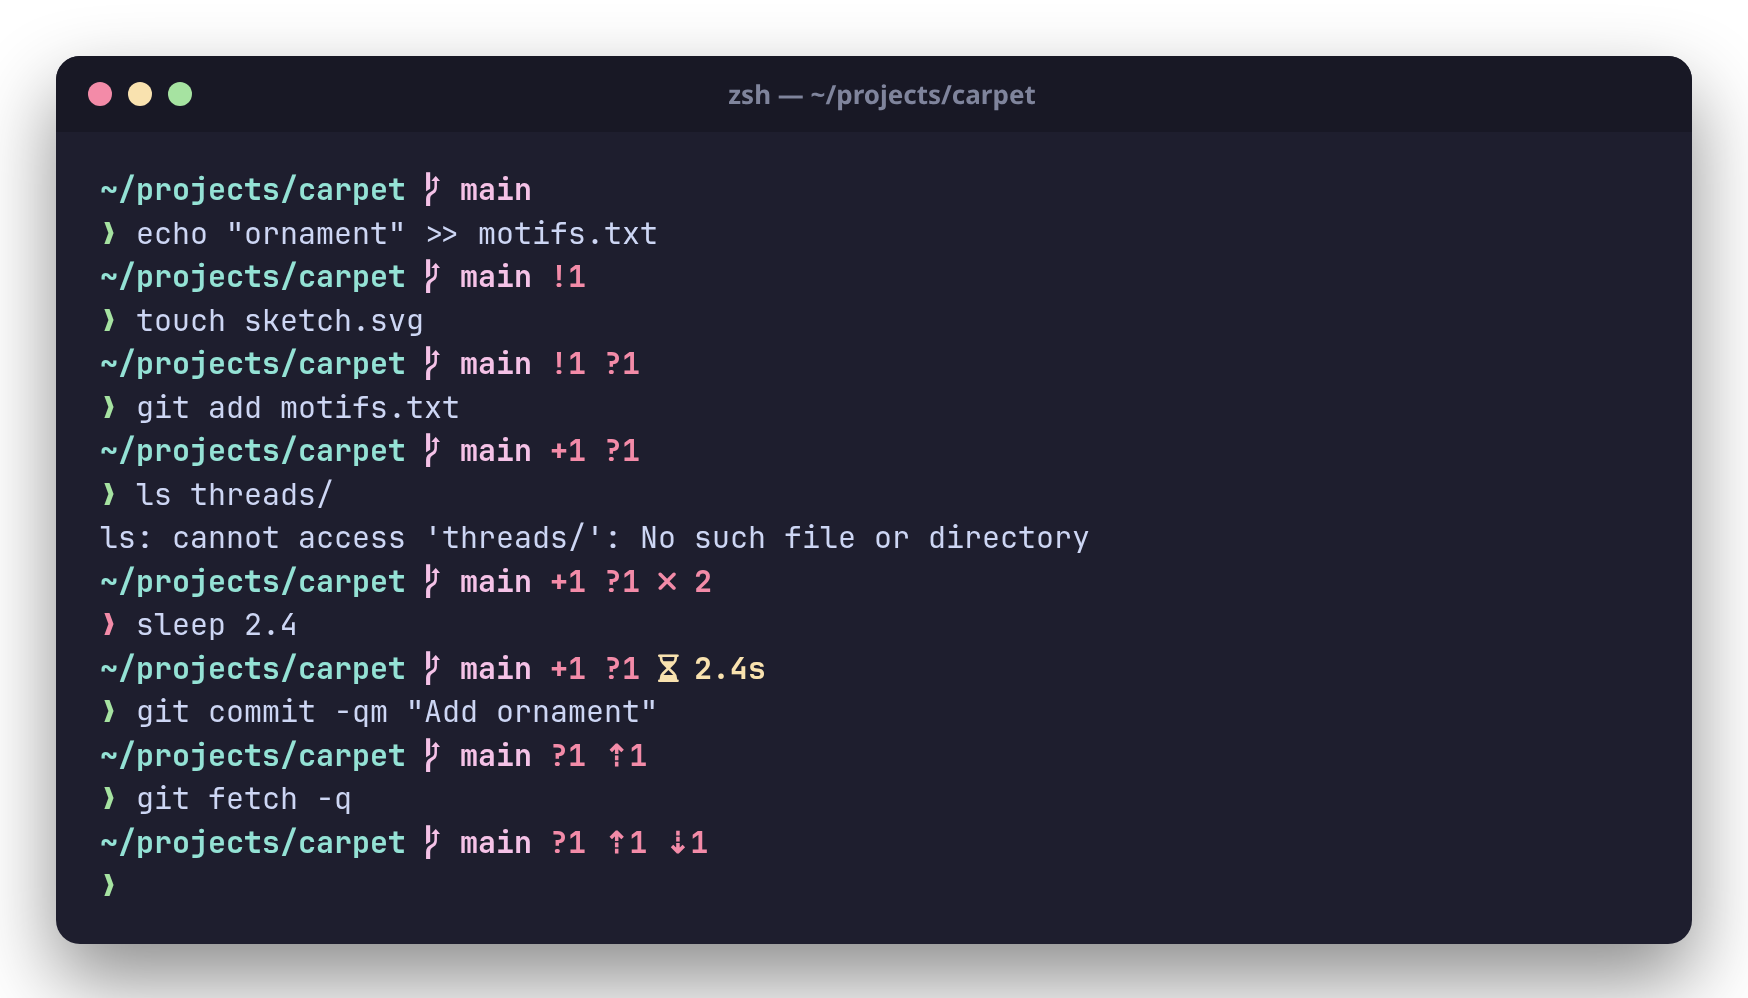
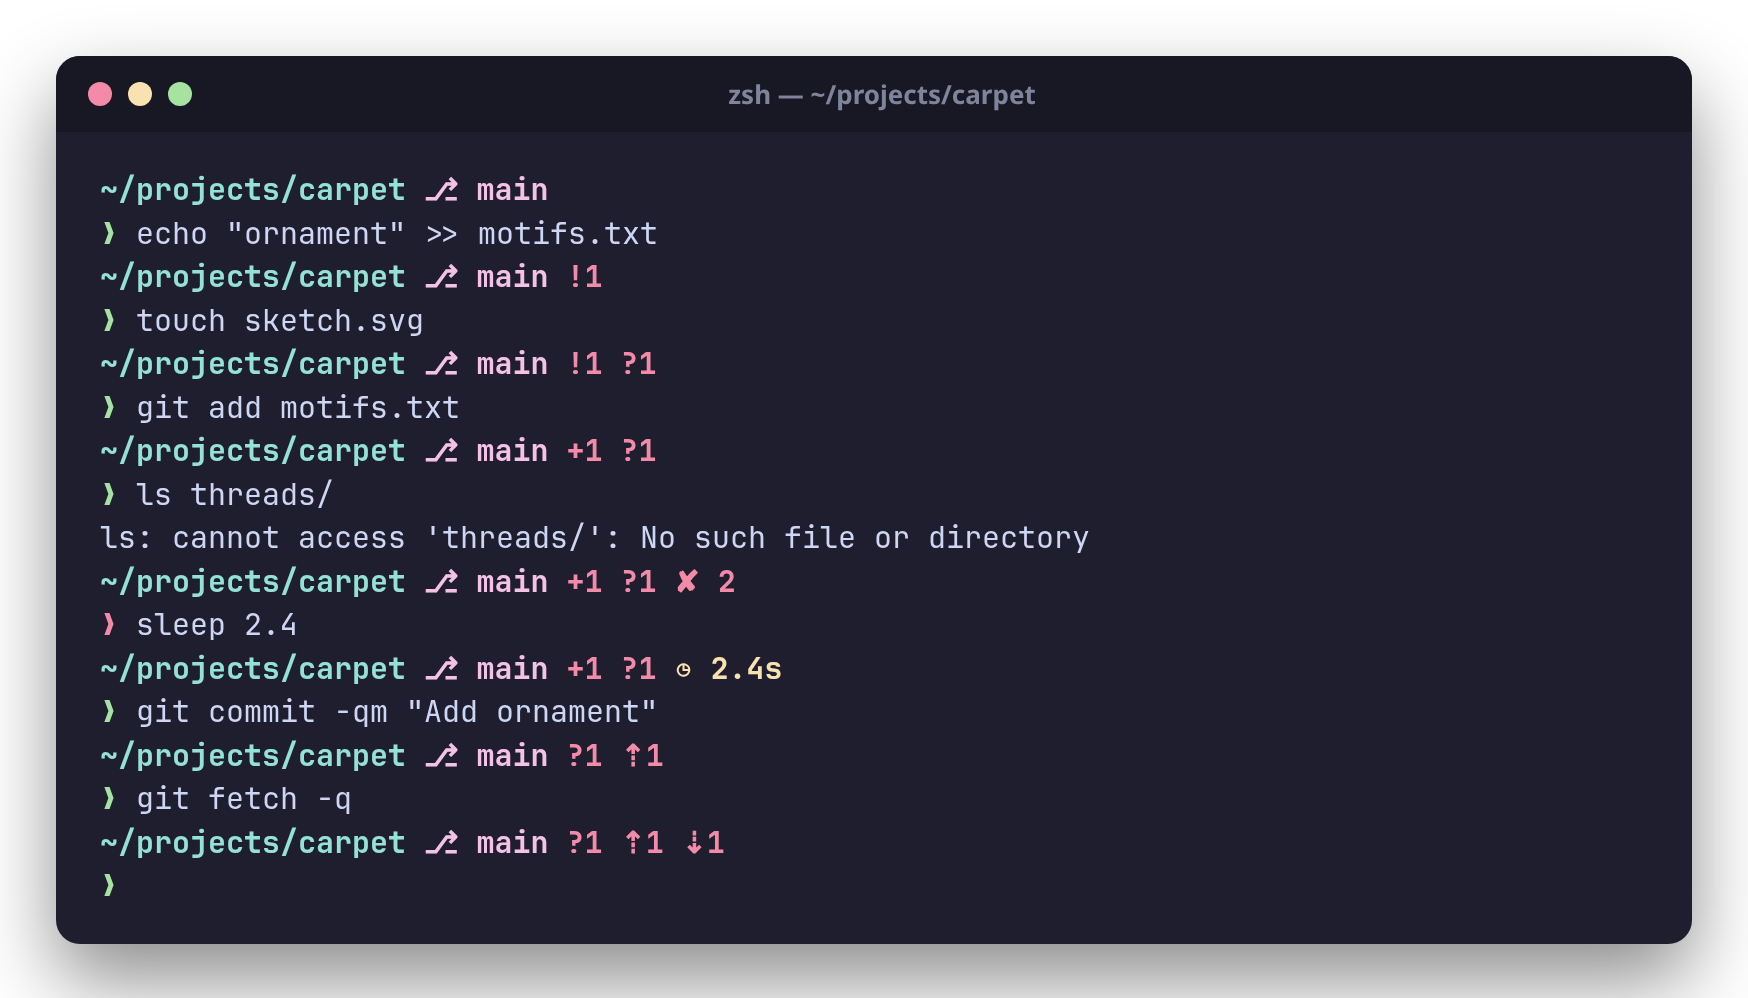
No font dependency: Unicode glyphs and block-element shapes by default
The default glyph set is now .unicode: standard Unicode only, which any
font draws (from a fallback font if need be). The Nerd Font icons stay
available as .glyphs = .nerd. Segments default to half blocks, and every
preset uses block-element shapes instead of powerline glyphs: stairs
(carpet), shade (neon), dither (pixel), equalizer (acid) and pills
(bubbles). A test keeps Private Use Area code points out of the presets
and the default set. Screenshots regenerated.

diff --git a/docs/tools/render.py b/docs/tools/render.py
@@ -4,8 +4,10 @@
 
     render.py capture.ans out.png [--title TITLE] [--cols N]
 
-Needs chromium (headless) and JetBrainsMono Nerd Font installed, so the
-glyphs render exactly as in a real terminal.
+    render.py capture.ans out.png --font "Noto Sans Mono"
+
+Needs chromium (headless) and JetBrains Mono (the Nerd Font build, whose
+files are found by name) installed, or any installed font with --font.
 """
 
 import argparse
@@ -141,7 +143,7 @@ def to_html(text):
     return lines
 
 
-def page(lines, title, cols):
+def page(lines, title, cols, family=None):
     char_w = FONT_SIZE * 0.6
     width = int(cols * char_w + 2 * PAD_X)
     height = int(len(lines) * FONT_SIZE * LINE_HEIGHT + 2 * PAD_Y + BAR)
@@ -154,6 +156,9 @@ def page(lines, title, cols):
             ("Italic", 400, "italic"), ("BoldItalic", 700, "italic"),
         ]
     )
+    stack = "T,monospace"
+    if family:
+        fonts, stack = "", '"%s",monospace' % family
     body = "".join('<div class="l">%s</div>' % l for l in lines)
     doc = """<!doctype html><meta charset="utf-8"><style>%s
 html,body{margin:0;background:%%s}
@@ -163,12 +168,12 @@ html,body{margin:0;background:%%s}
    font:600 13px system-ui,sans-serif;color:#7f849c}
 .d{width:12px;height:12px;border-radius:50%%}
 .t{flex:1;text-align:center;margin-right:52px}
-.s{padding:%dpx %dpx;font:%dpx/%s T,monospace;color:%s;white-space:pre}
+.s{padding:%dpx %dpx;font:%dpx/%s %s;color:%s;white-space:pre}
 .l{height:%.2fpx}
 </style><div class="w"><div class="b"><span class="d" style="background:#f38ba8"></span>
 <span class="d" style="background:#f9e2af"></span><span class="d" style="background:#a6e3a1"></span>
 <span class="t">%s</span></div><div class="s">%s</div></div>""" % (
-        fonts, margin, width, BG, BAR, PAD_Y, PAD_X, FONT_SIZE, LINE_HEIGHT, FG,
+        fonts, margin, width, BG, BAR, PAD_Y, PAD_X, FONT_SIZE, LINE_HEIGHT, stack, FG,
         FONT_SIZE * LINE_HEIGHT, html.escape(title), body,
     )
     return doc, width + 2 * margin, height + 2 * margin
@@ -211,12 +216,13 @@ def main():
     ap.add_argument("out")
     ap.add_argument("--title", default="")
     ap.add_argument("--cols", type=int, default=0)
+    ap.add_argument("--font", default=None, help="an installed font family to use instead")
     args = ap.parse_args()
     text = open(args.capture, encoding="utf-8", errors="replace").read()
     text = re.sub(r"(\n[ \t]*)+$", "", text.rstrip("\n") + "\n")  # trailing blank lines
     lines = to_html(text)
     cols = args.cols or max(len(SGR.sub("", OTHER_ESC.sub("", l))) for l in text.split("\n"))
-    doc, w, h = page(lines, args.title, cols)
+    doc, w, h = page(lines, args.title, cols, args.font)
     with tempfile.TemporaryDirectory() as tmp:
         white = shoot(doc, "#ffffff", w, h, tmp, "white")
         black = shoot(doc, "#000000", w, h, tmp, "black")

diff --git a/docs/configuration.md b/docs/configuration.md
@@ -17,8 +17,8 @@ config never costs you the prompt.
 
 ```zig
 .{
-    // .nerd (default, needs a Nerd Font) or .ascii
-    .glyphs = .nerd,
+    // .unicode (default, any font), .nerd (icons, needs a Nerd Font) or .ascii
+    .glyphs = .unicode,
     // Modules in display order; modules left out are never computed.
     .order = .{ .dir, .git_branch, .git_status, .python, .node, .rust, .go, .zig, .duration, .status, .jobs, .line_break, .character },
     .separator = " ",
@@ -75,15 +75,27 @@ segments.
 
 ```zig
 .segments = .{
-    .open = "\u{e0b6}",  // before a run of segments
-    .join = "\u{e0b0}",  // between two segments; null: separate pills
-    .close = "\u{e0b0}", // after a run
+    .open = "▐",  // before a run of segments (the default)
+    .join = "▌",  // between two segments; null: separate pills
+    .close = "▌", // after a run
     .padding = " ",      // inside each segment, on both sides
 },
 ```
 
-Some shapes from the Nerd Font set (and plain Unicode, which needs no
-special font):
+Shapes made of block elements work with every font (most terminals
+draw these characters themselves, filling the cell):
+
+| Shape     | open    | join    | close   | Used by  |
+|-----------|---------|---------|---------|----------|
+| half      | `▐`     | `▌`     | `▌`     | default  |
+| stairs    | `▗▟`    | `▙▖`    | `▙▖`    | carpet   |
+| shade     | `░▒▓`   | `▓▒░`   | `▓▒░`   | neon     |
+| dither    | `▗▞`    | `▞`     | `▚▖`    | pixel    |
+| equalizer | `▁▃▅▇`  | `▇▅▃▁`  | `▇▅▃▁`  | acid     |
+| pills     | `▐`     | `null`  | `▌`     | bubbles  |
+
+With a Nerd Font, the powerline shapes are available too. They are in
+the Private Use Area, so without such a font they show as boxes:
 
 | Shape     | open       | join       | close      |
 |-----------|------------|------------|------------|
@@ -92,8 +104,6 @@ special font):
 | slant     | `\u{e0ba}` | `\u{e0bc}` | `\u{e0bc}` |
 | flame     | `\u{e0c2}` | `\u{e0c0}` | `\u{e0c0}` |
 | pixel     | `\u{e0c7}` | `\u{e0c6}` | `\u{e0c6}` |
-| shade     | `░▒▓`      | `\u{e0b0}` | `▓▒░`      |
-| pills     | `\u{e0b6}` | `null`     | `\u{e0b4}` |
 
 **Ornaments.** The `text` module draws fixed pieces of styled text:
 motifs, frames, labels. List `.text` in `order` wherever it should go
@@ -109,8 +119,9 @@ motifs, frames, labels. List `.text` in `order` wherever it should go
 ```
 
 **Paths.** `.dir = .{ .separator = " ❯ " }` draws `~ ❯ dev ❯ butaglyph`;
-any string works (`" \u{e0b1} "` for a powerline chevron, `" • "`,
-`" ∕ "`). The root of an absolute path stays `/`.
+any string works (`" › "`, `" • "`, `" ∕ "`, or `" \u{e0b1} "`, a
+powerline chevron, with a Nerd Font). The root of an absolute path stays
+`/`.
 
 ## Modules
 

diff --git a/README.md b/README.md
@@ -29,8 +29,9 @@ weaves small glyphs into your prompt the same way.
 | Windows | See [Windows](#windows) below |
 | From source | `zig build -Doptimize=ReleaseFast` (Zig 0.16.0), then copy `zig-out/bin/buta` |
 
-You need a [Nerd Font](https://www.nerdfonts.com/font-downloads) in your
-terminal for the icons (or use the `minimal` or `ascii` preset).
+Any font works: every preset and the default look use only standard
+Unicode. If you have a [Nerd Font](https://www.nerdfonts.com) and want
+its icons, set `.glyphs = .nerd`.
 
 Then add one line to your shell:
 
@@ -55,11 +56,7 @@ Then add one line to your shell:
    [Environment]::SetEnvironmentVariable('Path', "$userPath;$bin", 'User')
    ```
 
-2. Install a Nerd Font (unzip, select the `.ttf` files, right-click,
-   *Install*) and choose it in Windows Terminal: *Settings → Profiles →
-   Defaults → Appearance → Font face*.
-
-3. Open a new terminal and run:
+2. Open a new terminal and run:
 
    ```powershell
    Set-ExecutionPolicy -Scope CurrentUser RemoteSigned
@@ -98,7 +95,7 @@ Start from a preset (`buta preset carpet --install`), then edit
     .order = .{ .text, .dir, .git_branch, .git_status, .duration, .status, .line_break, .character },
 
     // Join modules that have a background into segments.
-    .segments = .{ .open = "\u{e0b6}", .join = "\u{e0b0}", .close = "\u{e0b0}" },
+    .segments = .{ .open = "▗▟", .join = "▙▖", .close = "▙▖" },
 
     // An ornament at the start.
     .text = .{ .pieces = .{.{ .text = "❧", .style = .{ .fg = "#e6a532" } }} },

diff --git a/docs/internals.md b/docs/internals.md
@@ -152,7 +152,7 @@ src/
   context.zig        shared read-only input: cwd, env, status, duration, jobs
   module.zig         module interface, registry, compute/render drivers
   config.zig         ZON config loading
-  glyphs.zig         Nerd Font and ASCII glyph sets
+  glyphs.zig         glyph sets: Unicode (default), Nerd Font, ASCII
   render.zig         spans, colors, gradients (OKLab), ANSI, per-shell quoting
   git/               the git reader (its own module, imported as "git")
     repo.zig         discovery, worktrees (.git files, commondir), HEAD
